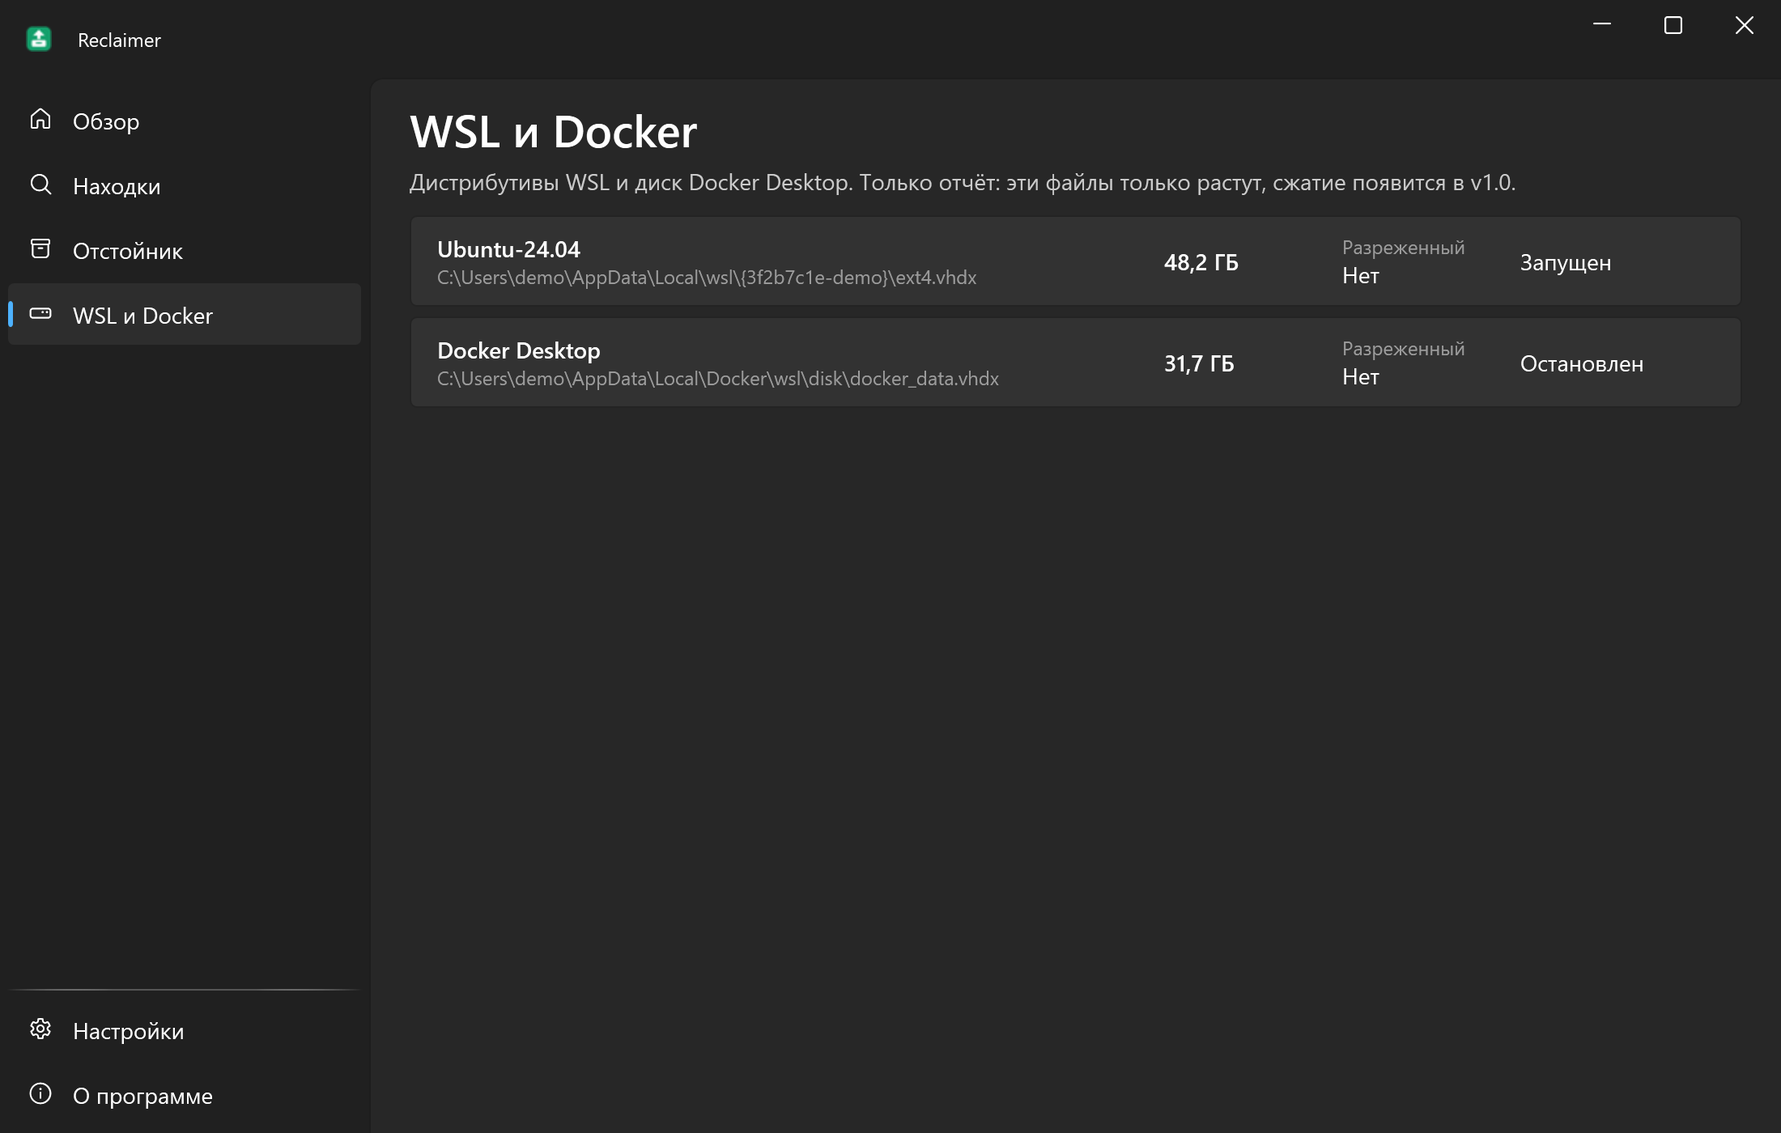
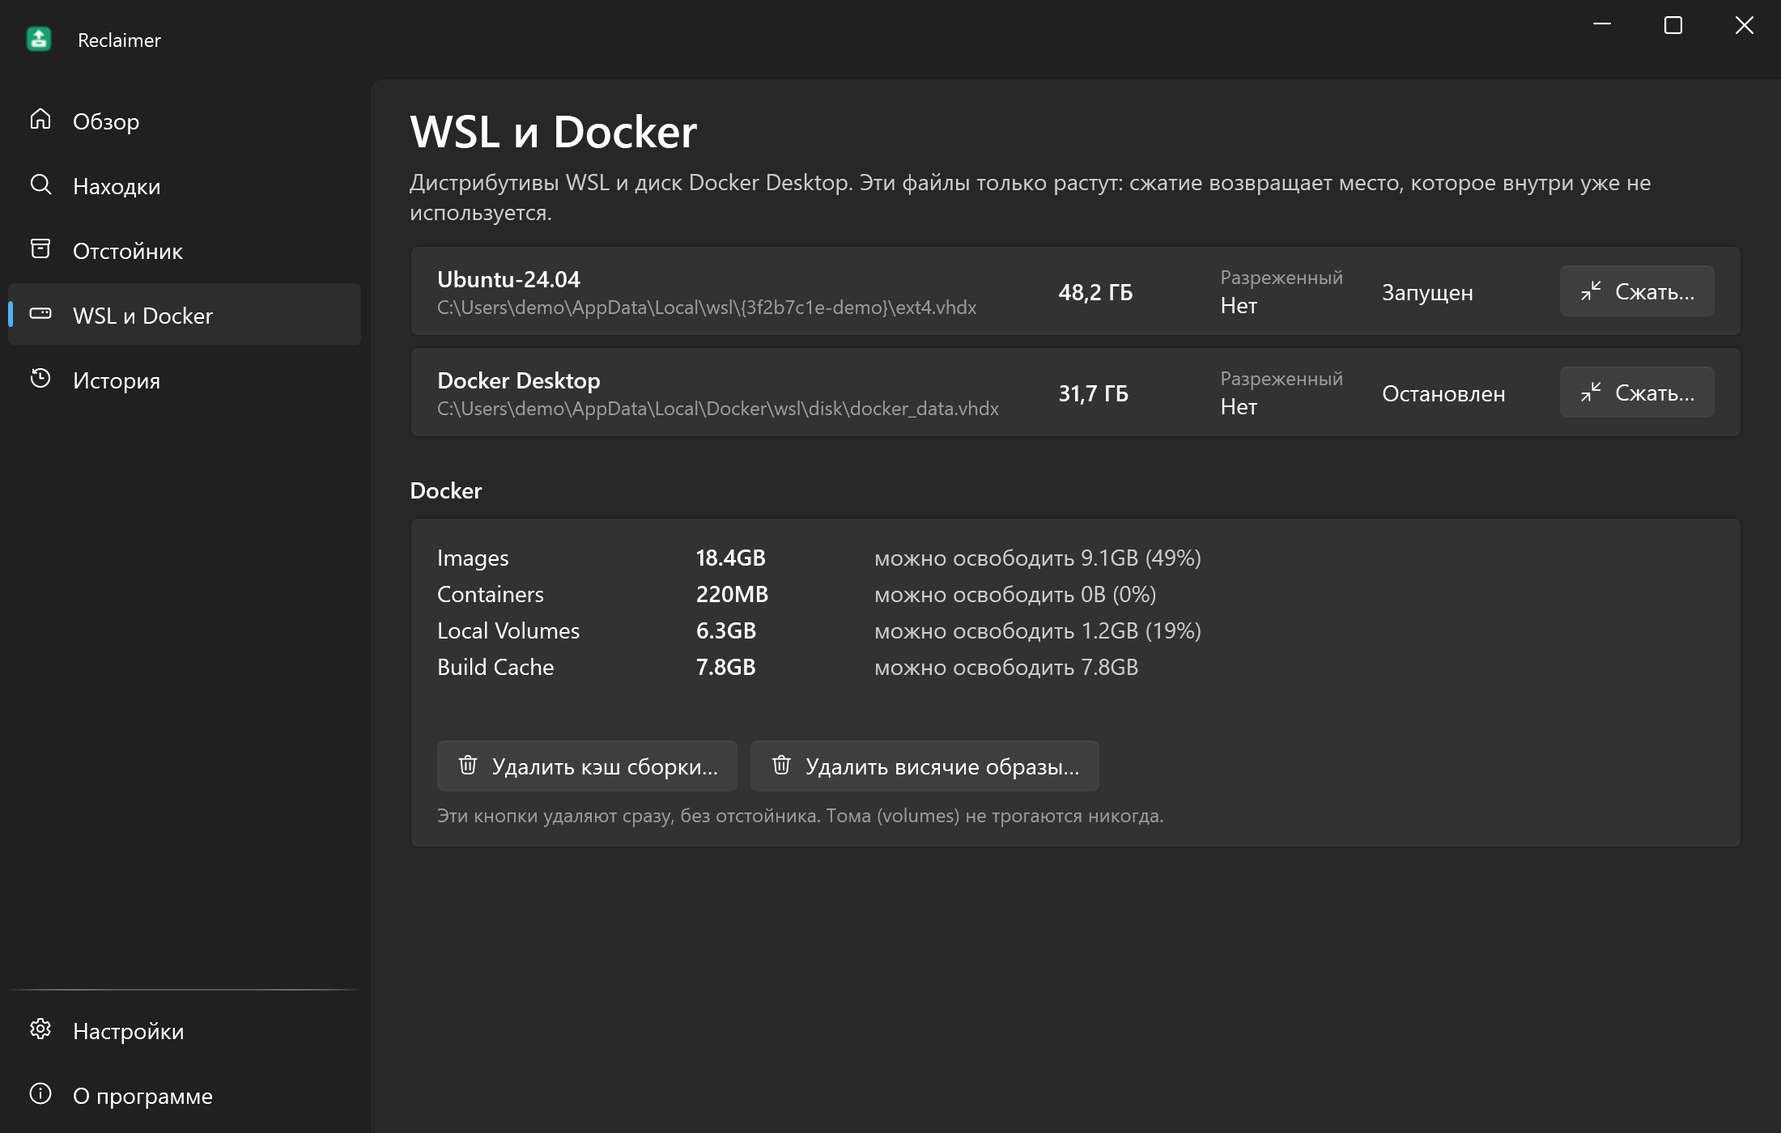
v1.0: demo, screenshots and README for the new features
Demo gets a duplicate row, Docker df rows and a history; screenshots of every page again (History
added). README EN/RU: new places, last Ollama run, duplicates, WSL/Docker compaction and prunes,
history and report, weekly reminder, FAQ on compaction, duplicates and the Docker buttons.
The window GIFs are still the v0.1 ones: the screen was off when they were recorded (black frames).

diff --git a/src/Reclaimer/Demo/DemoData.cs b/src/Reclaimer/Demo/DemoData.cs
@@ -72,12 +72,12 @@ public static class DemoData
     {
         var l = Catalog.All.ToDictionary(x => x.Id);
         Unit U(string loc, Category c, string title, string path, double gb, int days, UsedSource src, string? rebuild = null, string? marker = null,
-            UnitStatus status = UnitStatus.Ready, string? owner = null, string[]? notes = null, bool approx = false) => new()
+            UnitStatus status = UnitStatus.Ready, string? owner = null, string[]? notes = null, bool approx = false, string? dedupe = null) => new()
         {
             Id = "demo|" + path, Location = loc, Category = c, Title = title, Root = Home, Path = path,
             Parts = [new(path, true, (long)(gb * GB))], Bytes = (long)(gb * GB), LastUsed = DateTime.UtcNow.AddDays(-days).AddHours(-3), Source = src,
             Rebuild = rebuild ?? (l.TryGetValue(loc, out var x) ? x.Rebuild : null), Marker = marker, Status = status, Owner = owner,
-            Notes = [.. notes ?? []], Approximate = approx,
+            Notes = [.. notes ?? []], Approximate = approx, DedupeOf = dedupe,
         };
         var p = Home + @"\source";
         return
@@ -87,6 +87,9 @@ public static class DemoData
             U("hf-hub", Category.Models, "models--black-forest-labs--FLUX.1-dev", Home + @"\.cache\huggingface\hub\models--black-forest-labs--FLUX.1-dev", 23.8, 96, UsedSource.Modified),
             U("lmstudio", Category.Models, "Qwen3-32B-Q4_K_M.gguf", Home + @"\.lmstudio\models\Qwen\Qwen3-32B-GGUF\Qwen3-32B-Q4_K_M.gguf", 19.8, 152, UsedSource.Modified,
                 status: UnitStatus.OwnerRunning, owner: "LM Studio"),
+            U("dupe", Category.Models, string.Format(Loc.T("Title.Dupe"), "gemma-3-12b-it-Q4_K_M.gguf", "LM Studio", "Ollama"),
+                Home + @"\.lmstudio\models\lmstudio-community\gemma-3-12b-it-GGUF\gemma-3-12b-it-Q4_K_M.gguf", 7.3, 61, UsedSource.Modified, "Rebuild.Hardlink",
+                notes: [string.Format(Loc.T("Note.Dupe"), Home + @"\.ollama\modelslobs\sha256-adca500f")], dedupe: Home + @"\.ollama\modelslobs\sha256-adca500f"),
             U("ollama", Category.Models, "mistral-nemo:12b", Home + @"\.ollama\models\manifests\registry.ollama.ai\library\mistral-nemo\12b", 7.1, 41, UsedSource.Accessed),
             U("models-custom", Category.Models, "sd_xl_base_1.0.safetensors", @"D:\ComfyUI\models\checkpoints\sd_xl_base_1.0.safetensors", 5.4, 210, UsedSource.Modified, "Rebuild.Download"),
             U("uv", Category.Caches, Loc.T("Title.uv"), Home + @"\AppData\Local\uv\cache", 6.1, 112, UsedSource.Modified, notes: [Loc.T("Note.Hardlinks")], approx: true),

diff --git a/README.ru.md b/README.ru.md
@@ -26,12 +26,13 @@
 
 ## Возможности
 
-- **Знает места** — Hugging Face, Ollama, LM Studio, ComfyUI, pip, uv, npm, pnpm, NuGet и Cargo, плюс папки моделей, которые ты добавишь.
+- **Знает места** — Hugging Face (и старые ревизии, и недокачанное), Ollama, LM Studio, ComfyUI, llama.cpp, PyTorch hub, pip, uv, npm, pnpm, Yarn, NuGet, Cargo, Gradle, Maven и Go, плюс папки, которые ты добавишь.
 - **Заброшенные проекты** — `node_modules`, `target`, `bin`/`obj`, `.venv`, `.next` в проектах, которые не трогали 90+ дней, с датой последнего коммита.
-- **Честное «последнее использование»** — и откуда оно известно: коммит, изменён, открыт (только если NTFS это записывает) или «неизвестно».
-- **Отмена 7 дней** — перемещённое ждёт в отстойнике на том же диске; вернуть можно одной кнопкой.
+- **Честное «последнее использование»** — и откуда оно известно: коммит, последний запуск в Ollama, изменён, открыт (только если NTFS это записывает) или «неизвестно».
+- **Отмена 7 дней и история** — перемещённое ждёт в отстойнике на том же диске и возвращается одной кнопкой; в «Истории» каждое действие и освобождённое место, находки выгружаются в Markdown.
 - **Только белый список** — ничего вне известных мест не трогает и не перемещает модели, пока запущены Ollama или LM Studio.
-- **Диски WSL и Docker** — показывает реальный размер `ext4.vhdx` и `docker_data.vhdx` (только отчёт).
+- **Одни веса дважды** — GGUF, который лежит и в Ollama, и в LM Studio, становится одним файлом с двумя именами (хардлинк), обе программы работают.
+- **WSL и Docker** — сжимает `ext4.vhdx` и `docker_data.vhdx`, показывает `docker system df`, чистит кэш сборки и висячие образы.
 
 ## Как это выглядит
 
@@ -45,6 +46,7 @@
 | Подтверждение | ![Подтверждение, светлая](docs/confirm-light-ru.png) | ![Подтверждение, тёмная](docs/confirm-dark-ru.png) |
 | Отстойник | ![Отстойник, светлая](docs/quarantine-light-ru.png) | ![Отстойник, тёмная](docs/quarantine-dark-ru.png) |
 | WSL и Docker | ![WSL и Docker, светлая](docs/disks-light-ru.png) | ![WSL и Docker, тёмная](docs/disks-dark-ru.png) |
+| История | ![История, светлая](docs/history-light-ru.png) | ![История, тёмная](docs/history-dark-ru.png) |
 
 ## Как это работает
 
@@ -80,6 +82,7 @@ Reclaimer смотрит только туда, где знает, что леж
 | Папки моделей | нет | `models` ComfyUI, папки GGUF: файлы от 100 МБ |
 | Свои папки кэша | нет | Переносятся целиком: только то, что программа наполнит сама |
 | Исключённые папки | нет | Никогда не сканируются и не перемещаются |
+| Еженедельное напоминание | выкл. | Раз в неделю тихое сканирование сообщает, сколько можно вернуть, если это 1 ГБ и больше |
 | Язык, тема, автозапуск, ярлык в «Пуске», проверка обновлений | | Как во всех программах набора |
 
 Настройки, история действий (`history.jsonl`) и логи лежат в `%APPDATA%\Reclaimer`. Отстойник — `%LOCALAPPDATA%\Reclaimer\Quarantine` на системном диске и скрытая папка `.reclaimer-quarantine` на остальных.
@@ -110,6 +113,22 @@ Reclaimer переименовывает и удаляет папки, и эвр
 Reclaimer не закрывает программы. Закрой Ollama, LM Studio, сборку или то, что держит файлы, и нажми **Проверить снова**. «Не в .gitignore» — папку отслеживает git: в ней могут быть твои файлы, поэтому выбрать её нельзя.
 </details>
 
+<details><summary>Как сжимается диск WSL или Docker?</summary>
+
+Эти диски растут, но сами не уменьшаются. **Сжать…** по желанию выполняет `fstrim` внутри дистрибутива, просит выйти из Docker Desktop, останавливает WSL (`wsl --shutdown` останавливает все дистрибутивы, поэтому сначала спрашивает), затем Windows запрашивает права администратора для `diskpart`: диск подключается только для чтения, сжимается и отключается.
+От администратора работает только этот шаг, в отдельном процессе `Reclaimer.exe --compact-vhdx`, который принимает только диск, найденный самим Reclaimer. Внутри диска ничего не удаляется.
+</details>
+
+<details><summary>Дубли: а если программа изменит файл?</summary>
+
+Остаётся копия в Ollama или Hugging Face: они не правят блобы на месте. Если другая программа изменила бы такой файл на месте, изменение увидели бы обе, и окно подтверждения об этом предупреждает. **Вернуть** снимает хардлинк и возвращает отдельную копию.
+</details>
+
+<details><summary>Кнопки Docker</summary>
+
+`docker builder prune -f` и `docker image prune -f` (только висячие образы) удаляют насовсем, без отстойника; это написано и на кнопках, и в подтверждении. Тома (volumes) и `system prune -a` не трогаются никогда.
+</details>
+
 <details><summary>Контролируемый доступ к папкам заблокировал перемещение</summary>
 
 Безопасность Windows защищает «Документы», «Рабочий стол» и другие папки от незнакомых программ. Ничего не изменилось. Чтобы разрешить: Безопасность Windows → Защита от вирусов и угроз → Защита от программ-шантажистов → Разрешить работу приложения через контролируемый доступ к папкам.
@@ -123,7 +142,8 @@ Reclaimer не закрывает программы. Закрой Ollama, LM St
 ## Приватность
 
 Без телеметрии. Единственный сетевой запрос — проверка обновлений: `GET https://api.github.com/repos/lojekq/Reclaimer/releases/latest` раз в сутки, выключается в настройках.
-Запускает `git.exe` (с `core.fsmonitor=false`), чтобы узнать, игнорируется ли папка и когда был последний коммит, и `wsl.exe --list --running`; всё остаётся на этом ПК.
+Запускает `git.exe` (с `core.fsmonitor=false`), чтобы узнать, игнорируется ли папка и когда был последний коммит, `wsl.exe --list --running` и `docker system df`; по твоей команде ещё очистку Docker, `fstrim`, `wsl --shutdown` и `diskpart`. Всё остаётся на этом ПК.
+Читает `server*.log` Ollama, чтобы знать, когда модель запускалась в последний раз.
 `history.jsonl` хранит на этом ПК пути того, что перемещено, возвращено и удалено. В логах путей нет.
 
 ## Сборка из исходников

diff --git a/README.md b/README.md
@@ -26,12 +26,13 @@ Generic cleaners don't know these places, and "biggest files" tools leave you gu
 
 ## Features
 
-- **Knows the places** — Hugging Face, Ollama, LM Studio, ComfyUI, pip, uv, npm, pnpm, NuGet and Cargo, plus model folders you add.
+- **Knows the places** — Hugging Face (old revisions and unfinished downloads too), Ollama, LM Studio, ComfyUI, llama.cpp, PyTorch hub, pip, uv, npm, pnpm, Yarn, NuGet, Cargo, Gradle, Maven and Go, plus folders you add.
 - **Stale projects** — `node_modules`, `target`, `bin`/`obj`, `.venv`, `.next` in projects untouched for 90+ days, with the last commit date.
-- **Honest "last used"** — and how it knows: last commit, modified, opened (only when NTFS records it), or "unknown".
-- **7-day undo** — moved items wait in a quarantine on the same disk; one click brings them back.
+- **Honest "last used"** — and how it knows: last commit, last Ollama run, modified, opened (only when NTFS records it), or "unknown".
+- **7-day undo, full history** — moved items wait in a quarantine on the same disk and come back with one click; History lists every action and the space it freed, and the findings export to Markdown.
 - **Whitelist only** — it never touches anything outside known places and won't move models while Ollama or LM Studio is running.
-- **WSL and Docker disks** — shows how big your `ext4.vhdx` and `docker_data.vhdx` really are (report only).
+- **Same weights twice** — a GGUF kept by both Ollama and LM Studio becomes one file with two names (a hardlink), and both keep working.
+- **WSL and Docker** — compacts `ext4.vhdx` and `docker_data.vhdx`, shows `docker system df` and clears the build cache and dangling images.
 
 ## See it in action
 
@@ -45,6 +46,7 @@ Generic cleaners don't know these places, and "biggest files" tools leave you gu
 | Confirmation | ![Confirmation, light](docs/confirm-light-en.png) | ![Confirmation, dark](docs/confirm-dark-en.png) |
 | Quarantine | ![Quarantine, light](docs/quarantine-light-en.png) | ![Quarantine, dark](docs/quarantine-dark-en.png) |
 | WSL and Docker | ![WSL and Docker, light](docs/disks-light-en.png) | ![WSL and Docker, dark](docs/disks-dark-en.png) |
+| History | ![History, light](docs/history-light-en.png) | ![History, dark](docs/history-dark-en.png) |
 
 ## How it works
 
@@ -80,6 +82,7 @@ On the first start Windows may show a SmartScreen warning (see FAQ). Add your pr
 | Model folders | none | ComfyUI `models`, GGUF folders: files of 100 MB and more |
 | Own cache folders | none | Moved as a whole: only folders a tool refills by itself |
 | Excluded folders | none | Never scanned or moved |
+| Weekly reminder | off | Once a week a quiet scan tells how much can be reclaimed, if it is 1 GB or more |
 | Language, theme, Start with Windows, Start menu shortcut, check for updates | | As in every app of the set |
 
 Settings, the action history (`history.jsonl`) and logs live in `%APPDATA%\Reclaimer`. The quarantine is `%LOCALAPPDATA%\Reclaimer\Quarantine` on the system disk and a hidden `.reclaimer-quarantine` folder on other disks.
@@ -110,6 +113,22 @@ For pnpm and uv some files may be hardlinks shared with projects, so the freed s
 Reclaimer doesn't close programs. Close Ollama, LM Studio, the build or whatever holds the files, then press **Check again**. A row "Not in .gitignore" is a folder git tracks: it may hold your own files, so it can't be picked.
 </details>
 
+<details><summary>How does compacting a WSL or Docker disk work?</summary>
+
+These disks grow but never shrink by themselves. **Compact…** optionally runs `fstrim` inside the distribution, asks you to quit Docker Desktop, shuts WSL down (`wsl --shutdown` stops every distribution, so it asks first), and then Windows asks for administrator rights for `diskpart`: the disk is attached read-only, compacted and detached.
+Only that step runs as administrator, in a separate `Reclaimer.exe --compact-vhdx` process that accepts nothing but a disk Reclaimer itself found. Nothing inside the disk is deleted.
+</details>
+
+<details><summary>Duplicates: what if a program changes the file?</summary>
+
+The kept copy is the one in Ollama or Hugging Face: they never edit a blob in place. If another program edited such a file in place, both would see the change, and the confirmation says so. **Restore** removes the hardlink and puts the separate copy back.
+</details>
+
+<details><summary>The Docker buttons</summary>
+
+`docker builder prune -f` and `docker image prune -f` (dangling images only) delete for good, without the quarantine; the buttons and the confirmation say so. Volumes and `system prune -a` are never touched.
+</details>
+
 <details><summary>Controlled folder access blocked the move</summary>
 
 Windows Security protects Documents, Desktop and other folders from programs it doesn't know. Nothing was changed. To allow it: Windows Security → Virus &amp; threat protection → Ransomware protection → Allow an app through Controlled folder access.
@@ -123,7 +142,8 @@ First restore or clean the quarantine: **Remove data and autostart** refuses whi
 ## Privacy
 
 No telemetry. The only network request is the update check: `GET https://api.github.com/repos/lojekq/Reclaimer/releases/latest` once a day; turn it off in Settings.
-It runs `git.exe` (with `core.fsmonitor=false`) to ask whether a folder is ignored and when the last commit was, and `wsl.exe --list --running`; both stay on this PC.
+It runs `git.exe` (with `core.fsmonitor=false`) to ask whether a folder is ignored and when the last commit was, `wsl.exe --list --running` and `docker system df`; on your request also the Docker prunes, `fstrim`, `wsl --shutdown` and `diskpart`. All of it stays on this PC.
+It reads Ollama's `server*.log` to know when a model last ran.
 `history.jsonl` keeps the paths of what was moved, restored and deleted on this PC. Logs contain no paths.
 
 ## Build from source
